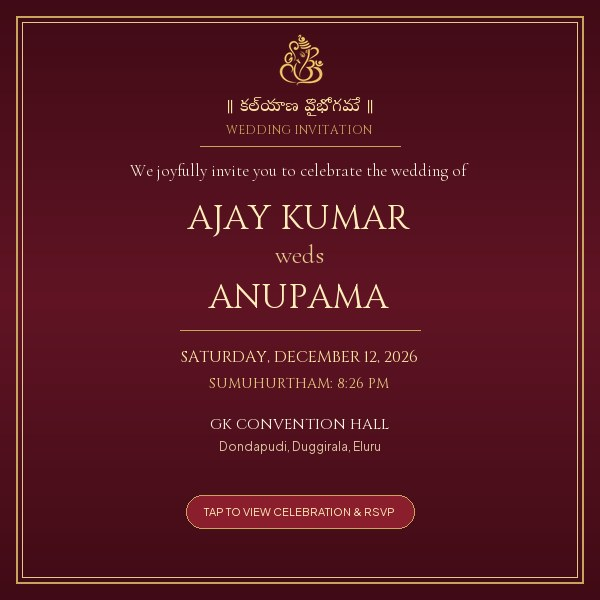
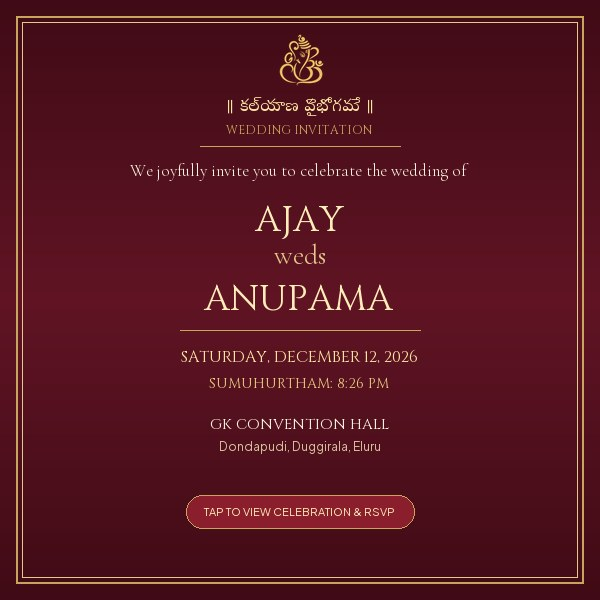
Set Ajay Kumar specifically on first hero page, use Ajay for all remaining sections and metadata share card

Changed region(s): [[0.3, 0.33, 0.69, 0.54]]

diff --git a/src/app/layout.tsx b/src/app/layout.tsx
@@ -31,23 +31,23 @@ const plusJakarta = localFont({
 });
 
 const siteUrl = "https://ajay-weds-anupama.vercel.app";
-const shareImageUrl = `${siteUrl}/images/ajay-anupama-wedding-share.jpg?v=5`;
-const shareSquareUrl = `${siteUrl}/images/ajay-anupama-wedding-square.jpg?v=5`;
-const shareTitle = "Ajay Kumar & Anupama — Wedding Invitation | Dec 12, 2026";
+const shareImageUrl = `${siteUrl}/images/ajay-anupama-wedding-share.jpg?v=6`;
+const shareSquareUrl = `${siteUrl}/images/ajay-anupama-wedding-square.jpg?v=6`;
+const shareTitle = "Ajay & Anupama — Wedding Invitation | Dec 12, 2026";
 const shareDescription =
-  "We joyfully invite you and your family to celebrate the sacred wedding of Ajay Kumar and Anupama on Saturday, December 12, 2026 at GK Convention Hall, Eluru.";
+  "We joyfully invite you and your family to celebrate the sacred wedding of Ajay and Anupama on Saturday, December 12, 2026 at GK Convention Hall, Eluru.";
 
 export const metadata: Metadata = {
   metadataBase: new URL(siteUrl),
   title: shareTitle,
   description: shareDescription,
-  applicationName: "Ajay Kumar & Anupama Wedding",
-  authors: [{ name: "Ajay Kumar & Anupama" }],
-  creator: "Ajay Kumar & Anupama",
-  publisher: "Ajay Kumar & Anupama",
+  applicationName: "Ajay & Anupama Wedding",
+  authors: [{ name: "Ajay & Anupama" }],
+  creator: "Ajay & Anupama",
+  publisher: "Ajay & Anupama",
   keywords: [
-    "Ajay Kumar Anupama Wedding",
-    "Ajay Kumar weds Anupama",
+    "Ajay Anupama Wedding",
+    "Ajay weds Anupama",
     "Telugu Wedding Invitation",
     "GK Convention Hall Eluru",
     "December 12 2026 Wedding",
@@ -56,8 +56,8 @@ export const metadata: Metadata = {
     type: "website",
     locale: "en_IN",
     url: siteUrl,
-    siteName: "Ajay Kumar & Anupama Wedding Celebration",
-    title: "Ajay Kumar & Anupama — Wedding Invitation",
+    siteName: "Ajay & Anupama Wedding Celebration",
+    title: "Ajay & Anupama — Wedding Invitation",
     description: shareDescription,
     images: [
       {
@@ -66,7 +66,7 @@ export const metadata: Metadata = {
         width: 1200,
         height: 630,
         type: "image/jpeg",
-        alt: "Ajay Kumar & Anupama Wedding Invitation",
+        alt: "Ajay & Anupama Wedding Invitation",
       },
       {
         url: shareSquareUrl,
@@ -74,13 +74,13 @@ export const metadata: Metadata = {
         width: 600,
         height: 600,
         type: "image/jpeg",
-        alt: "Ajay Kumar & Anupama Wedding Invitation",
+        alt: "Ajay & Anupama Wedding Invitation",
       },
     ],
   },
   twitter: {
     card: "summary_large_image",
-    title: "Ajay Kumar & Anupama — Wedding Invitation",
+    title: "Ajay & Anupama — Wedding Invitation",
     description: shareDescription,
     images: [shareImageUrl],
   },
@@ -108,15 +108,15 @@ export default function RootLayout({
         {/* Open Graph / Facebook / WhatsApp */}
         <meta property="og:type" content="website" />
         <meta property="og:url" content={siteUrl} />
-        <meta property="og:site_name" content="Ajay Kumar & Anupama Wedding Celebration" />
-        <meta property="og:title" content="Ajay Kumar & Anupama — Wedding Invitation" />
+        <meta property="og:site_name" content="Ajay & Anupama Wedding Celebration" />
+        <meta property="og:title" content="Ajay & Anupama — Wedding Invitation" />
         <meta property="og:description" content={shareDescription} />
         <meta property="og:image" content={shareImageUrl} />
         <meta property="og:image:secure_url" content={shareImageUrl} />
         <meta property="og:image:type" content="image/jpeg" />
         <meta property="og:image:width" content="1200" />
         <meta property="og:image:height" content="630" />
-        <meta property="og:image:alt" content="Ajay Kumar & Anupama Wedding Invitation" />
+        <meta property="og:image:alt" content="Ajay & Anupama Wedding Invitation" />
         <meta property="og:locale" content="en_IN" />
 
         {/* Legacy Scrapers & WhatsApp Image Fallback */}
@@ -125,7 +125,7 @@ export default function RootLayout({
         {/* Twitter Card */}
         <meta name="twitter:card" content="summary_large_image" />
         <meta name="twitter:url" content={siteUrl} />
-        <meta name="twitter:title" content="Ajay Kumar & Anupama — Wedding Invitation" />
+        <meta name="twitter:title" content="Ajay & Anupama — Wedding Invitation" />
         <meta name="twitter:description" content={shareDescription} />
         <meta name="twitter:image" content={shareImageUrl} />
 

diff --git a/src/data/wedding-data.ts b/src/data/wedding-data.ts
@@ -1,5 +1,6 @@
 export interface CouplePerson {
   name: string;
+  heroName?: string;
   teluguName: string;
   role: string;
   parents: string;
@@ -78,8 +79,9 @@ export interface WeddingConfig {
 export const weddingConfig: WeddingConfig = {
   couple: {
     groom: {
-      name: "Ajay Kumar",
-      teluguName: "అజయ్ కుమార్",
+      name: "Ajay",
+      heroName: "Ajay Kumar",
+      teluguName: "అజయ్",
       role: "Meet the Groom",
       parents: "Smt. Rani & Sri Narasimharao",
       education: "Chartered Accountant",

diff --git a/src/components/invitation/WeddingHero.tsx b/src/components/invitation/WeddingHero.tsx
@@ -81,7 +81,7 @@ export const WeddingHero: React.FC = () => {
               className="my-2 sm:my-3"
             >
               <h1 className="font-serif-royal text-2xl min-[360px]:text-3xl sm:text-5xl font-extrabold text-[#6D1429] tracking-wide drop-shadow-sm">
-                {weddingConfig.couple.groom.name}
+                {weddingConfig.couple.groom.heroName || weddingConfig.couple.groom.name}
               </h1>
 
               {/* weds emblem */}
